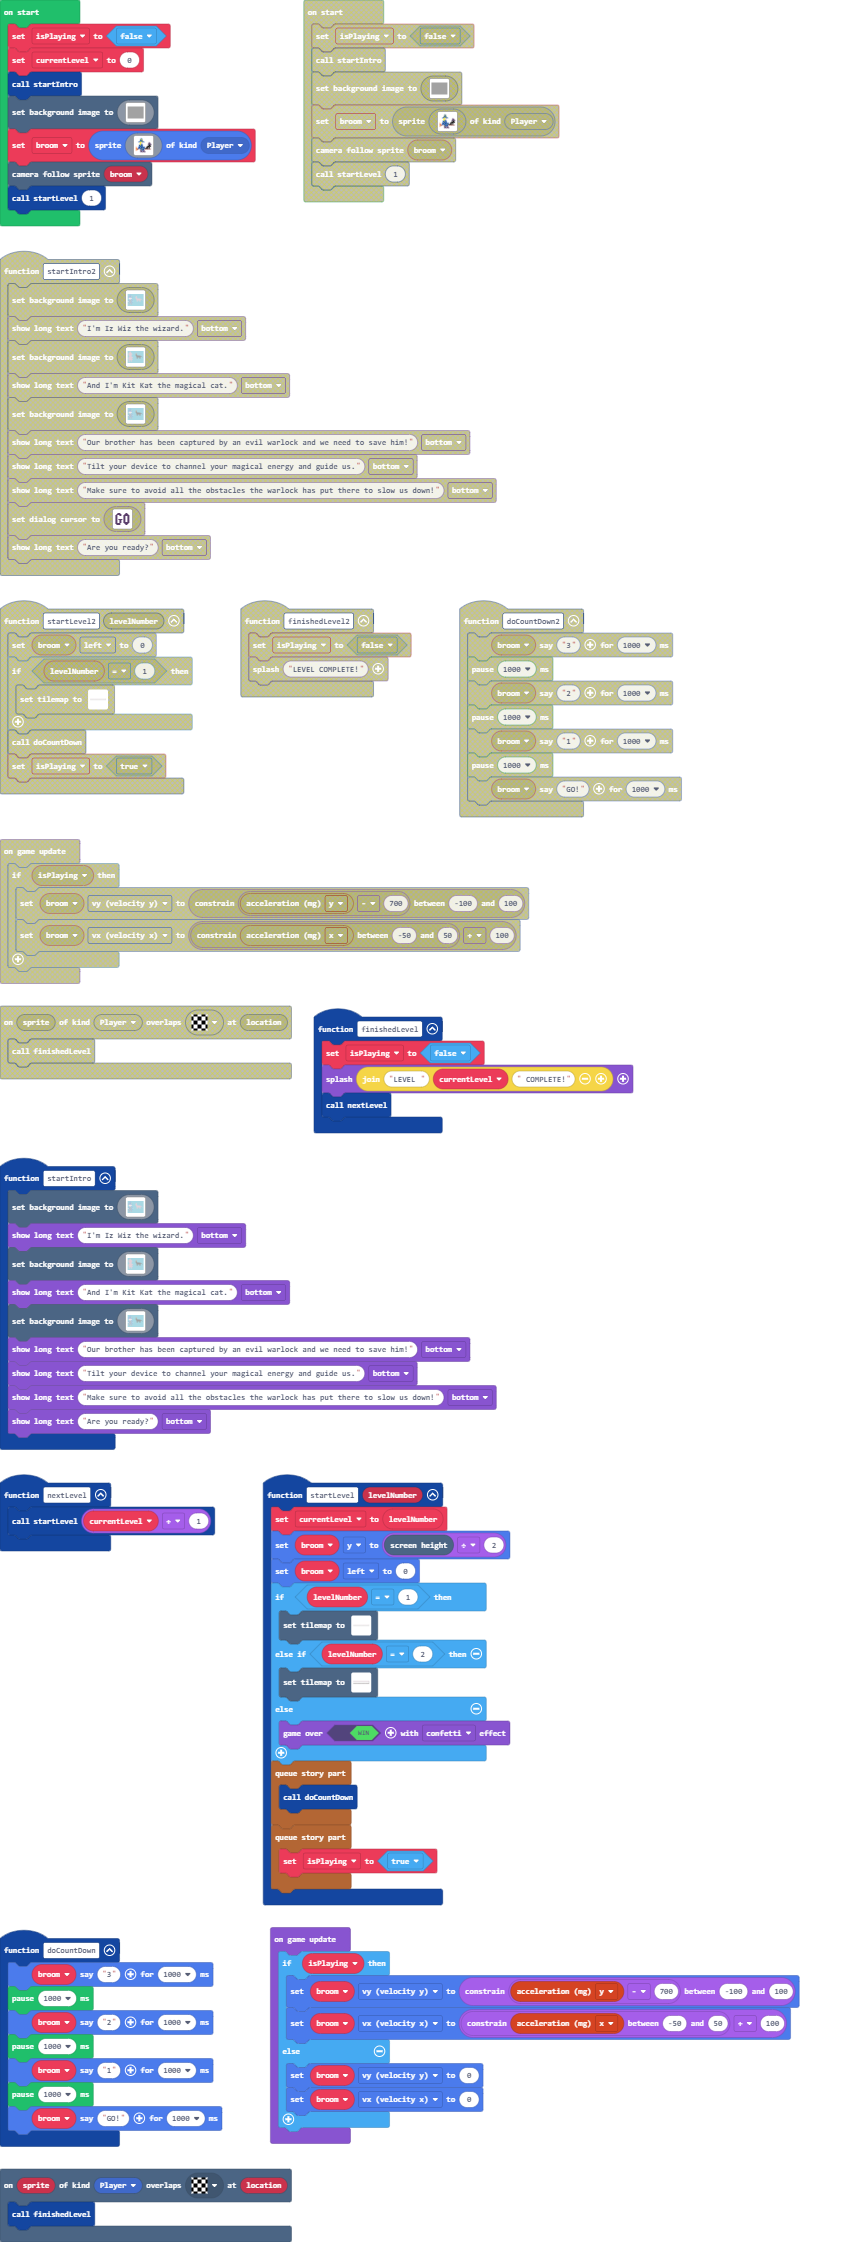
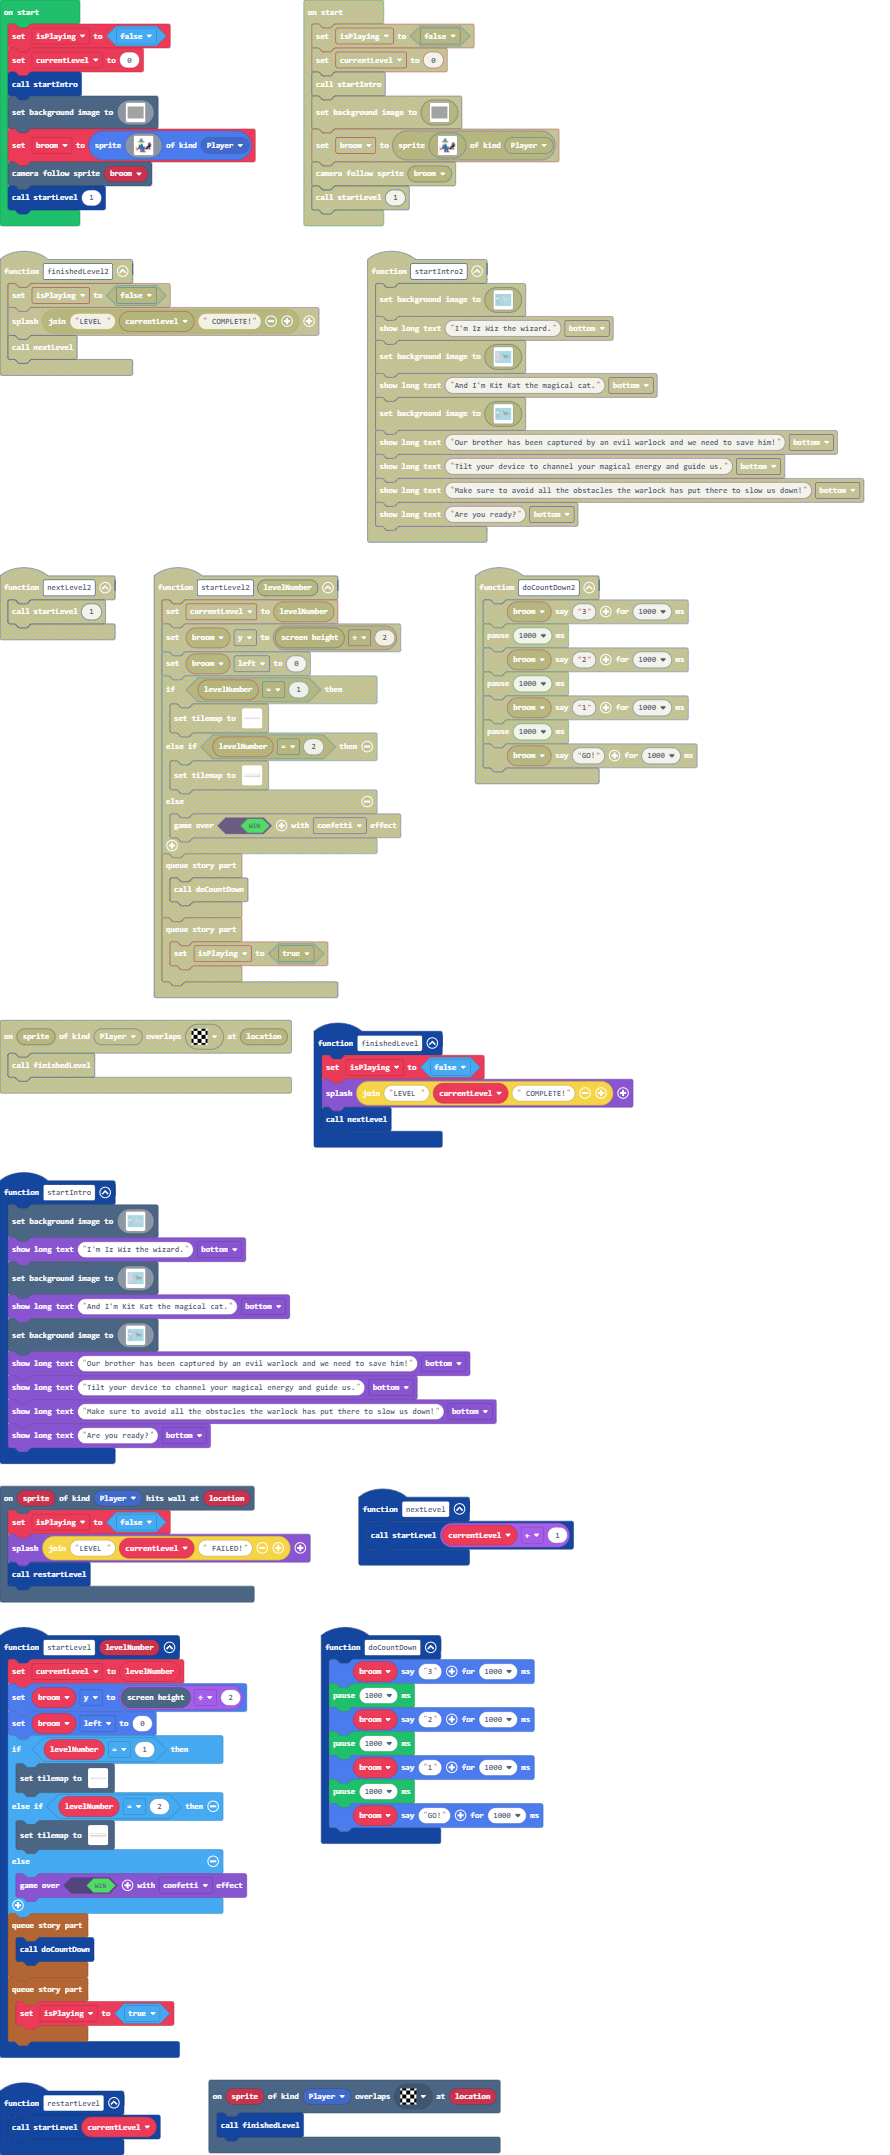
Add restarting level when player hits a wall.

diff --git a/main.ts b/main.ts
@@ -1,3 +1,8 @@
+scene.onHitWall(SpriteKind.Player, function (sprite, location) {
+    isPlaying = false
+    game.splash("LEVEL " + currentLevel + " FAILED!")
+    restartLevel()
+})
 function doCountDown () {
     broom.say("3", 1000)
     pause(1000)
@@ -11,6 +16,9 @@ function finishedLevel () {
     isPlaying = false
     game.splash("LEVEL " + currentLevel + " COMPLETE!")
     nextLevel()
+}
+function restartLevel () {
+    startLevel(currentLevel)
 }
 function startIntro () {
     scene.setBackgroundImage(img`
